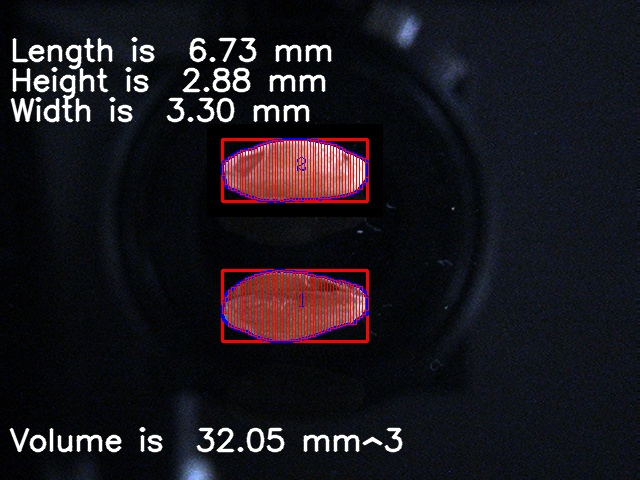
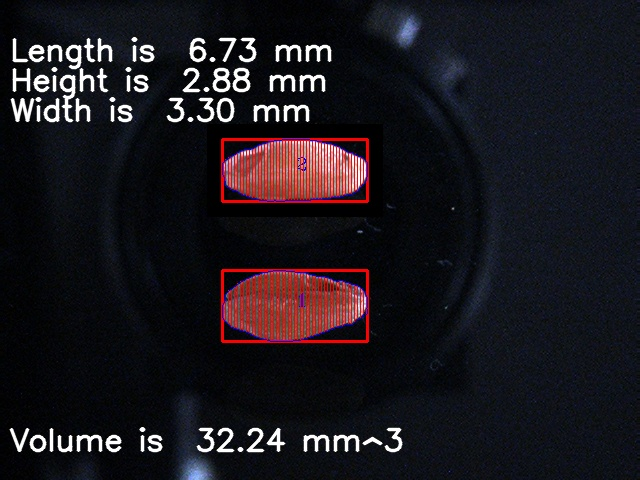
..

Changed region(s): [[0.3438, 0.5625, 0.5938, 0.7188], [0.3438, 0.2812, 0.5938, 0.4375], [0.375, 0.875, 0.4688, 0.9688]]

diff --git a/volume.py b/volume.py
@@ -183,6 +183,24 @@ def drawLine(image, box, contour, n):
     return
 
 
+def newDrawLine(contour, img):
+    Y_list = getAllpoint(contour)
+    for i in range(0, len(Y_list), 3):
+
+        pointX = Y_list[i][0]
+        pointY_top = Y_list[i][1]
+        pointY_bottom = Y_list[i][2]
+
+        # left line
+        cv.line(img, (pointX, pointY_top), (pointX, pointY_bottom), (0, 0, 255), 1)
+
+
+
+
+
+
+
+
 def suitForSlicing(list, midPoint):
     hasUpper = False
     hasLower = False
@@ -263,15 +281,46 @@ def slicingRect(box, contour, n):
     return rect_arr
 
 
+def findNextUpper(dict, index, mid):
+    while True:
+        if index in dict:
+            vList = dict.get(index)
+            if suitForSlicing(vList, mid):
+                if vList[0] < vList[-1]:
+                    return index, vList[0]
+                else:
+                    return index, vList[-1]
+            else:
+                if vList[0] <= mid:
+                    return index, vList[0]
+                else:
+                    index += 1
+        else:
+            index += 1
 
-def newSlicingRect(box, contour):
-    # start_time = time.time()
-    rect_list = []
+def findNextLower(dict, index, mid):
+    while True:
+        if index in dict:
+            vList = dict.get(index)
+            if suitForSlicing(vList, mid):
+                if vList[0] < vList[-1]:
+                    return index, vList[-1]
+                else:
+                    return index, vList[0]
+            else:
+                if vList[0] >= mid:
+                    return index, vList[0]
+                else:
+                    index += 1
+        else:
+            index += 1
 
-    contour = sorted(contour, key=lambda tup: tup[0][0])    # sort the contour, from left point to right point
+
+def getAllpoint(contour):
+    contour = sorted(contour, key=lambda tup: tup[0][0])  # sort the contour, from left point to right point
 
     # initial a dictionary
-    contour_dict = {}   # create dictionary to record the contour point with the same X value, X: [Y1, Y2}...
+    contour_dict = {}  # create dictionary to record the contour point with the same X value, X: [Y1, Y2}...
     k = contour[0][0][0]
     v = []
     v.append(contour[0][0][1])
@@ -287,12 +336,20 @@ def newSlicingRect(box, contour):
             newValue = []
             newValue.append(value)
             contour_dict[key] = newValue
+    print(contour_dict)
 
+    # find the left, right point, and mid_y
     left_point, right_point = newGetLeftRight(contour_dict)
     y_mid = getMidPoint(left_point, right_point, left_point[0])
     startPoint_X = left_point[0]
     endPoint_X = right_point[0]
+    print(y_mid)
+    ####
+    # create a list, to record each pixel's Y-value, which used to slice. for example: (X, topY, bottomY)
+    ####
+    Y_list = []
 
+    # add the first point (the most left) into list
     previousPoint_X = startPoint_X
     previousPoint_listValue = contour_dict.get(previousPoint_X)
     if len(previousPoint_listValue) > 1:
@@ -301,47 +358,88 @@ def newSlicingRect(box, contour):
     else:
         previousTop = y_mid
         previousBottom = y_mid
+    Y_list.append((startPoint_X, previousTop, previousBottom))
 
+    # add others into list
     current_X = startPoint_X + 1
     while current_X <= endPoint_X:
         if current_X in contour_dict:
-            current_listValue = contour_dict.get(current_X)
+            current_listValue = contour_dict.get(current_X)  # list all y-values from all point with the same x-value
             current_mid = getMidPoint(left_point, right_point, current_X)
-            rec_width = 1  #current_X - previousPoint_X # in fact, it is a fixed value : 1 (pixel)
-            if suitForSlicing(current_listValue, current_mid):  # or current_X == endPoint_X:
+            topY = findTop(current_listValue, current_mid)
+            bottomY = findBottom(current_listValue, current_mid)
 
-                rec_height = math.fabs(current_listValue[-1] - current_listValue[0])
-
-                #rec_height = current_listValue[0]
-
-                # ##########
-                # diff = rec_height - previousPoint_height
-                # previousPoint_height = rec_height
-                # rec_height = rec_height - (diff / 2)
-
-                # #############
-
-                rect_list.append((rec_width, rec_height))
-                previousPoint_X = current_X
-                previousTop = findTop(current_listValue, current_mid)
-                previousBottom = findBottom(current_listValue, current_mid)
-            else:
-                top = findTop(current_listValue, current_mid)
-                bottom = findBottom(current_listValue, current_mid)
-                if top != -1:
-                    rec_height = previousBottom - top
-                elif bottom != -1:
-                    rec_height = bottom - previousTop
-                elif top == bottom:
-                    rec_height = previousBottom - previousTop
-                rect_list.append((rec_width, rec_height))
+            if not suitForSlicing(current_listValue, current_mid):  # or current_X == endPoint_X:
+                if topY == bottomY:  # the most right point
+                    print("right point")
+                elif topY != -1:
+                    bottomY = previousBottom
+                elif bottomY != -1:
+                    topY = previousTop
+            Y_list.append((current_X, topY, bottomY))
+            previousTop = topY
+            previousBottom = bottomY
 
         else:
-            rect_list.append(rect_list[-1])
+            Y_list.append((current_X, previousTop, previousBottom))
         current_X += 1
-    print(rect_list)
-    print("%%%%%%%%%%%%%%%%")
-    return rect_list
+
+    print(Y_list)
+    print("%%%% old %%%%%%")
+
+    # update the list
+    size = len(Y_list)
+    for i in range(0, size):
+        k = Y_list[i][0]
+        mid = getMidPoint(left_point, right_point, k)
+        if k in contour_dict:
+            vList = contour_dict.get(k)
+            if suitForSlicing(vList, mid):
+                continue
+            else:
+                originalTopY = findTop(vList, mid)
+                originalBottomY = findBottom(vList, mid)
+                # nextX, upper, lower = findNext(contour_dict, k+1, mid)
+
+                if originalTopY != -1:
+                    nextX, lower = findNextLower(contour_dict, k+1, mid)
+                    temp = list(Y_list[i])
+                    # temp[2] = math.floor((lower - Y_list[i - 1][2]) / 2 + Y_list[i - 1][2])
+                    temp[2] = math.floor((lower - Y_list[i - 1][2]) / (nextX - k) + Y_list[i - 1][2])
+                    temp = tuple(temp)
+                    Y_list[i] = temp
+                elif originalBottomY != -1:
+                    nextX, upper = findNextUpper(contour_dict, k + 1, mid)
+                    temp = list(Y_list[i])
+                    # temp[1] = math.floor((upper - Y_list[i - 1][1]) / 2 + Y_list[i - 1][1])
+                    temp[1] = math.floor((upper - Y_list[i - 1][1]) / (nextX - k) + Y_list[i - 1][1])
+                    temp = tuple(temp)
+                    Y_list[i] = temp
+        else:
+            nextX_u, upper = findNextUpper(contour_dict, k+1, mid)
+            nextX_l, lower = findNextLower(contour_dict, k+1, mid)
+            temp = list(Y_list[i])
+            # temp[1] = math.floor((upper - Y_list[i - 1][1]) / 2 + Y_list[i - 1][1])
+            # temp[2] = math.floor((lower - Y_list[i - 1][2]) / 2 + Y_list[i - 1][2])
+            temp[1] = math.floor((upper - Y_list[i - 1][1]) / (nextX_u - k) + Y_list[i - 1][1])
+            temp[2] = math.floor((lower - Y_list[i - 1][2]) / (nextX_l - k) + Y_list[i - 1][2])
+            temp = tuple(temp)
+            Y_list[i] = temp
+
+    print(Y_list)
+    print("%%%% new %%%%%%")
+    return Y_list
+
+
+def newSlicingRect(contour):
+    Y_list = getAllpoint(contour)
+    rect_array = []
+    for i in range(0, len(Y_list)-1):
+        a = (Y_list[i][1] + Y_list[i+1][1]) / 2
+        b = (Y_list[i][2] + Y_list[i+1][2]) / 2
+        rect_array.append((1, math.floor(b - a)))
+    print(rect_array)
+    return rect_array
 
 ########################################################################
 # calculate volume using slicing rectangle box
@@ -350,7 +448,7 @@ def getVolume(length_t, length_m, rectArr_t, rectArr_m, ratio, model):
     # scale factor length_target / length_mirror
     # convert unit to mm by divid the ratio
     # V = pi * A * B * h
-    r = float(length_t / length_m)
+    r = length_t / length_m
     rectArr_m = np.array(rectArr_m) * r
 
     if model == "ellip":
@@ -419,11 +517,14 @@ def procView(HSVlower, HSVupper, img, num_slice, ratio, display, auto=False):
         box_target = box_mirror
 
     if display:
-        cv.drawContours(img, [twoConts[0]], 0, (255, 0, 0), 2)
-        drawLine(img, box_mirror, twoConts[0], num_slice)
+
+        # drawLine(img, box_mirror, twoConts[0], num_slice)
+        newDrawLine(twoConts[0], img)
+        cv.drawContours(img, [twoConts[0]], 0, (255, 0, 0), 1)
         if len(twoConts) > 1:
-            cv.drawContours(img, [twoConts[1]], 0, (255, 0, 0), 2)
-            drawLine(img, box_target, twoConts[1], num_slice)
+            # drawLine(img, box_target, twoConts[1], num_slice)
+            newDrawLine(twoConts[1], img)
+            cv.drawContours(img, [twoConts[1]], 0, (255, 0, 0), 1)
 
     length_m_pixel = result[0][1]
     width_pixel = result[0][0]
@@ -432,11 +533,11 @@ def procView(HSVlower, HSVupper, img, num_slice, ratio, display, auto=False):
     length_m = length_m_pixel / ratio
     width = width_pixel / ratio
     # rectArray_m = slicingRect(box_mirror, twoConts[0], num_slice)
-    rectArray_m = newSlicingRect(box_mirror, twoConts[0])
+    rectArray_m = newSlicingRect(twoConts[0])
 
     #######################
-    # newSlicingRect(box, twoConts[0])
-    # newSlicingRect(box, twoConts[1])
+    # newSlicingRect(twoConts[0])
+    # newSlicingRect(twoConts[1])
     ########################
 
     if len(twoConts) > 1:
@@ -448,7 +549,7 @@ def procView(HSVlower, HSVupper, img, num_slice, ratio, display, auto=False):
         length_t = length_t / ratio / r
         height = height / ratio / r
         # rectArray_t = slicingRect(box_target, twoConts[1], num_slice)
-        rectArray_t = newSlicingRect(box_target, twoConts[1])
+        rectArray_t = newSlicingRect(twoConts[1])
     else:
         length_t = length_m
         height = width

diff --git a/main.py b/main.py
@@ -18,7 +18,7 @@ def main():
     csv_folder_name = ''
 
     n = 50
-    vint = 50
+    vint = 45  # 135
 
     if (len(sys.argv) > 1):
         numSlice = int(sys.argv[1])
@@ -50,7 +50,7 @@ def main():
             #     # ratio = 21.937556313    # mirror: 112/5.1054
 
             # pixel and mm ratio
-            # ratio = 23.954372623574  # 36.9496855346
+            # ratio = 23.954372623574
             ratio = 110/5.1054  # 21.5458142359 #
             # ratio = 23.308653582    # R
             # ratio = 22.525169428    # L
